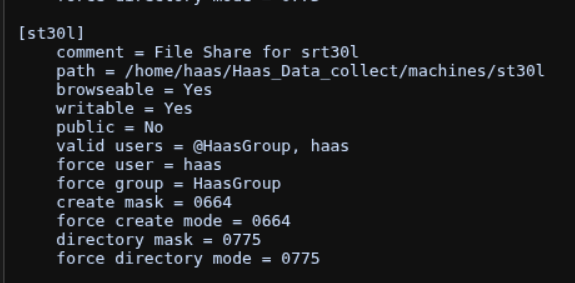
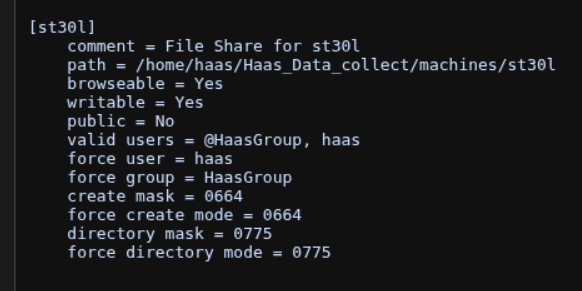
Git Title: samba.md: Updated images.

diff --git a/docs/manage_the_appliance/samba.md b/docs/manage_the_appliance/samba.md
@@ -256,7 +256,7 @@ filled in from a fixed template.
 
 Output if the share was created successfully:
 
-   ![screenshot](./img/create-share-final.resized.png)
+   ![screenshot](./img/create-share-final.png){ width="500"}
 
   ----------------------------------------------------------------
 
@@ -264,7 +264,7 @@ Output if the share was created successfully:
 
   ----------------------------------------------------------------
 
-   ![screenshot](./img/create-share-stanza.png)
+   ![screenshot](./img/create-share-stanza.png){ width="500"}
 
   ----------------------------------------------------------------
 
@@ -308,7 +308,7 @@ Each section is sorted alphabetically and each user is numbered. After all users
 
 ----------------------------------------------------------------
 
-![screenshot](./img/users.png)
+![screenshot](./img/users.png){ width="500"}
 
 ----------------------------------------------------------------
 
@@ -335,7 +335,7 @@ by hand.
 
 ----------------------------------------------------------------
 
-![screenshot](./img/create-user.resized.png)
+![screenshot](./img/create-user.png){ width="500"}
 
 ----------------------------------------------------------------
 
